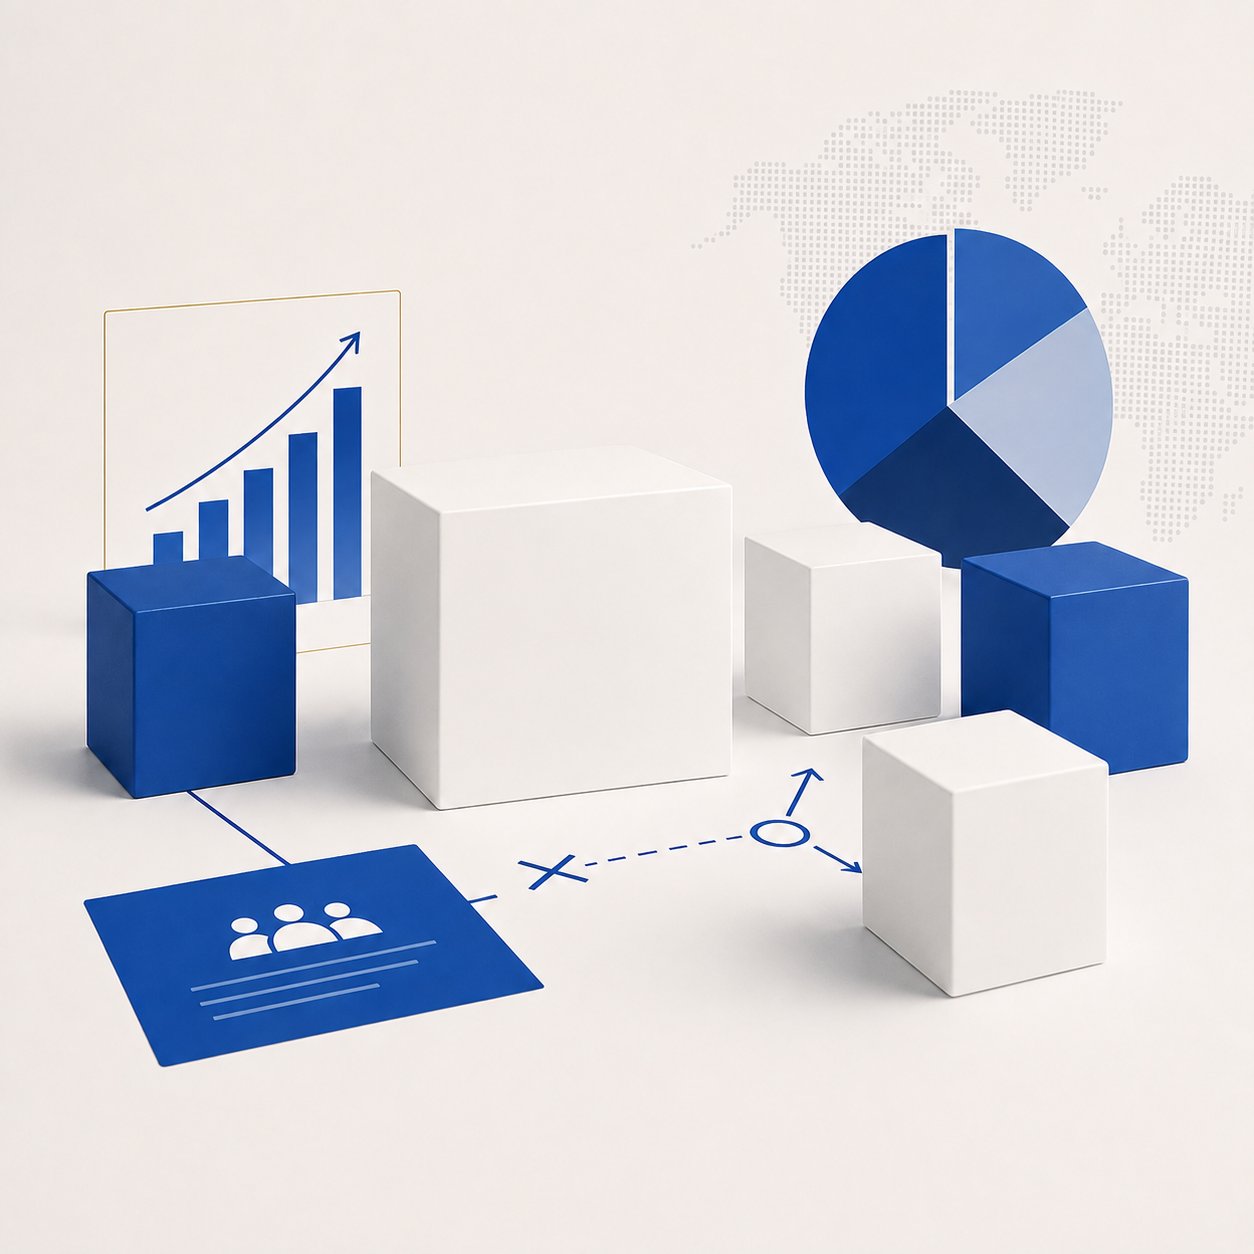
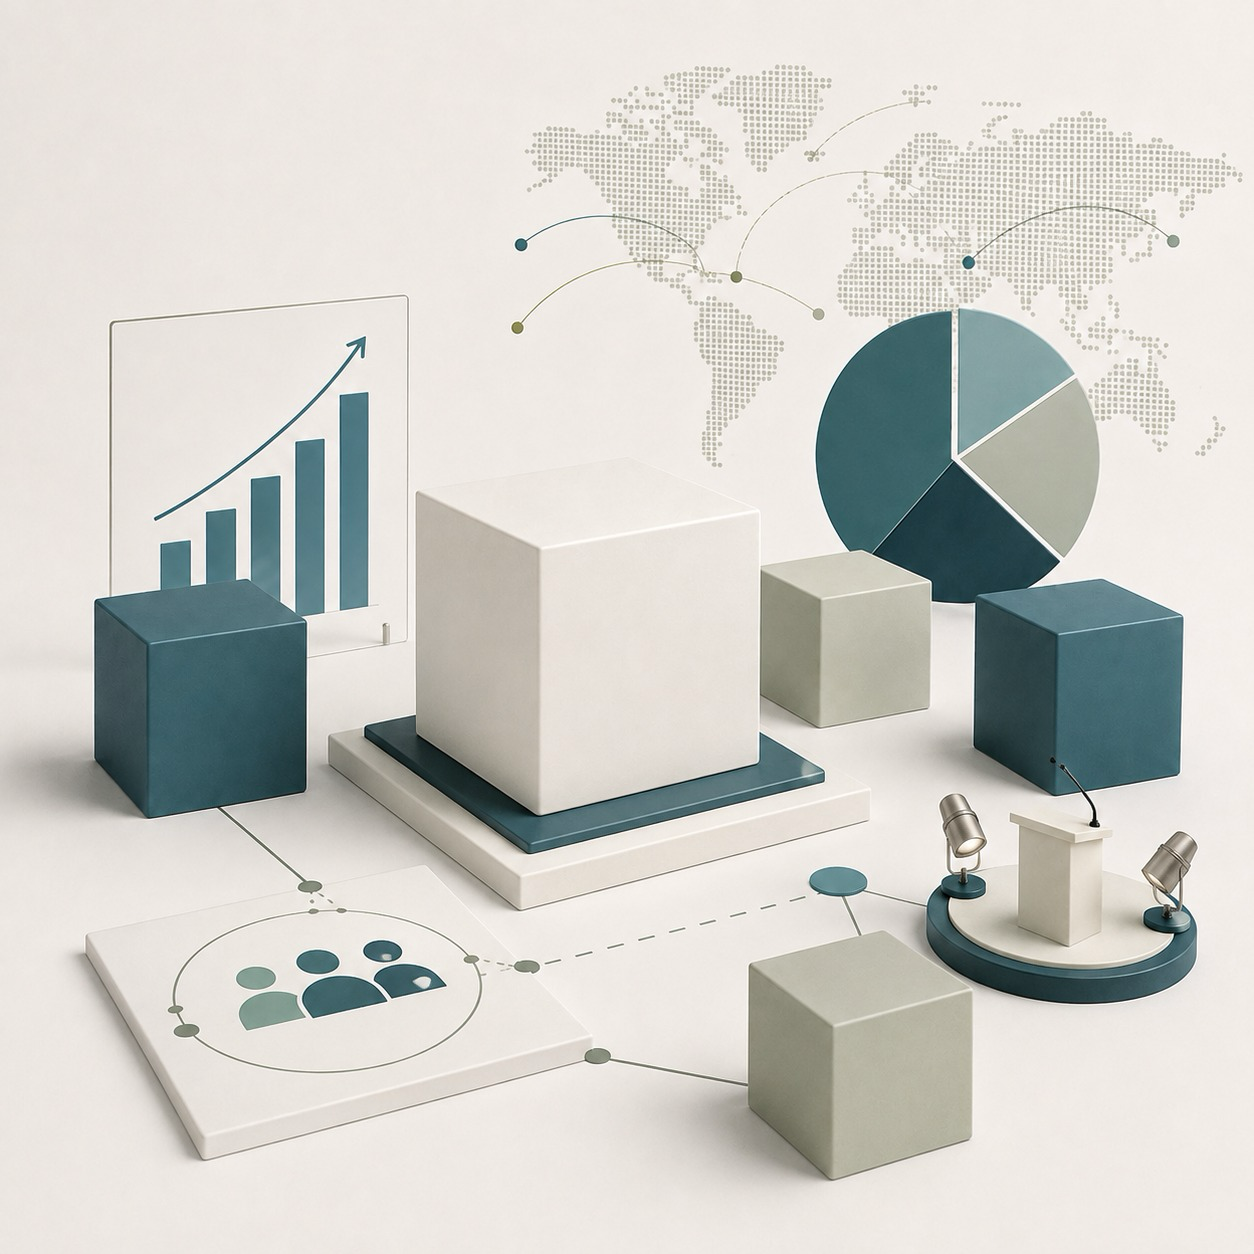
Link LinkedIn profile and refresh marketing visual
Points both LinkedIn icons to the real profile URL, and swaps the
marketing project's cover/hero image for a new teal-toned analytics
illustration.

diff --git a/index.html b/index.html
@@ -41,7 +41,7 @@
             <span class="brand-mark">GH</span>
             <small>GitHub</small>
           </a>
-          <a href="#profile-highlights" aria-label="LinkedIn">
+          <a href="https://www.linkedin.com/in/mariana-sanchez-chagoyan-08873a241/" target="_blank" rel="noreferrer" aria-label="LinkedIn">
             <span class="brand-mark large">in</span>
             <small>LinkedIn</small>
           </a>
@@ -100,7 +100,7 @@
           <a href="https://github.com/MarianaSanCha" target="_blank" rel="noreferrer" aria-label="GitHub">
             <span class="brand-mark">GH</span>
           </a>
-          <a href="#profile-highlights" aria-label="LinkedIn"><span class="brand-mark large">in</span></a>
+          <a href="https://www.linkedin.com/in/mariana-sanchez-chagoyan-08873a241/" target="_blank" rel="noreferrer" aria-label="LinkedIn"><span class="brand-mark large">in</span></a>
           <a href="mailto:" aria-label="Email"><i data-lucide="mail"></i></a>
           <button class="theme-toggle" type="button" aria-label="Change visual intensity">
             <i data-lucide="moon"></i>
